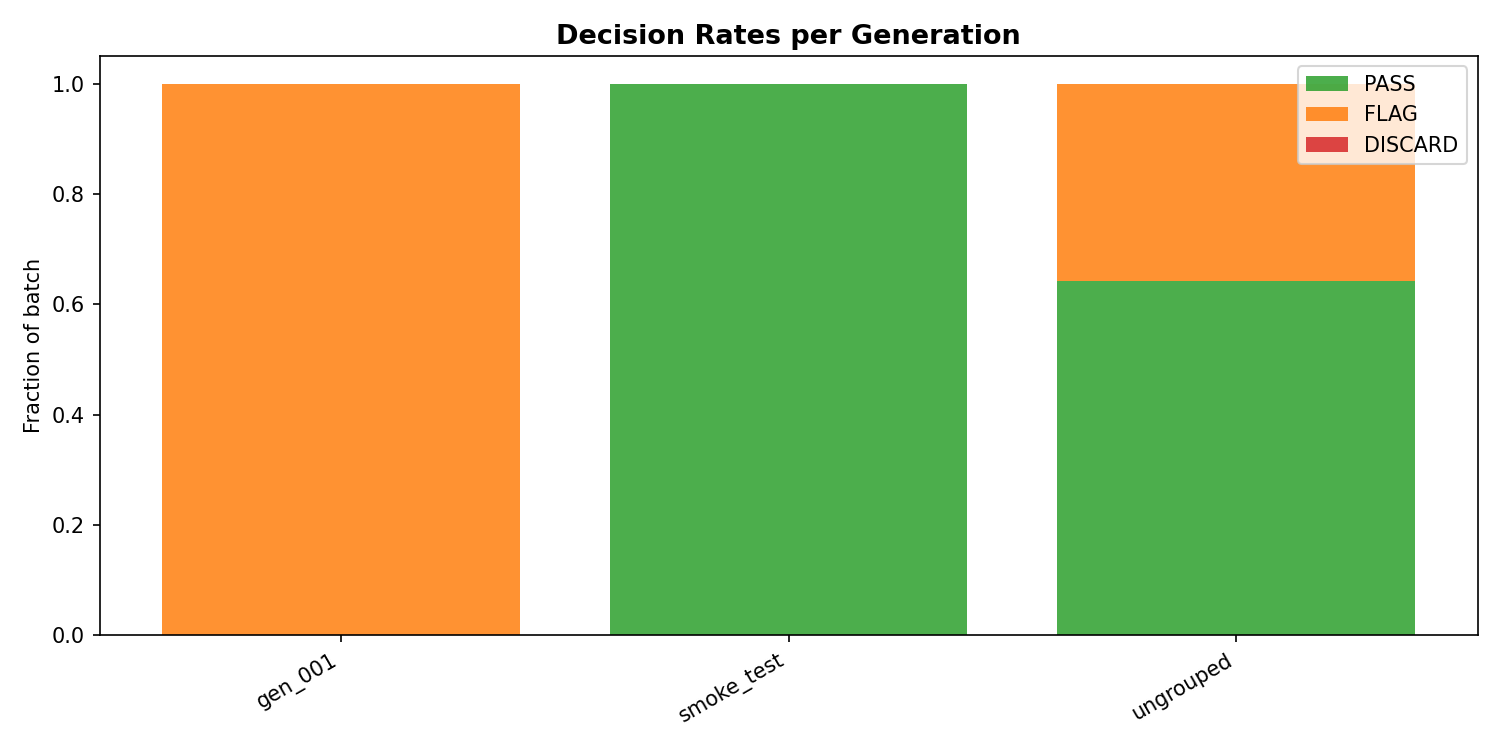
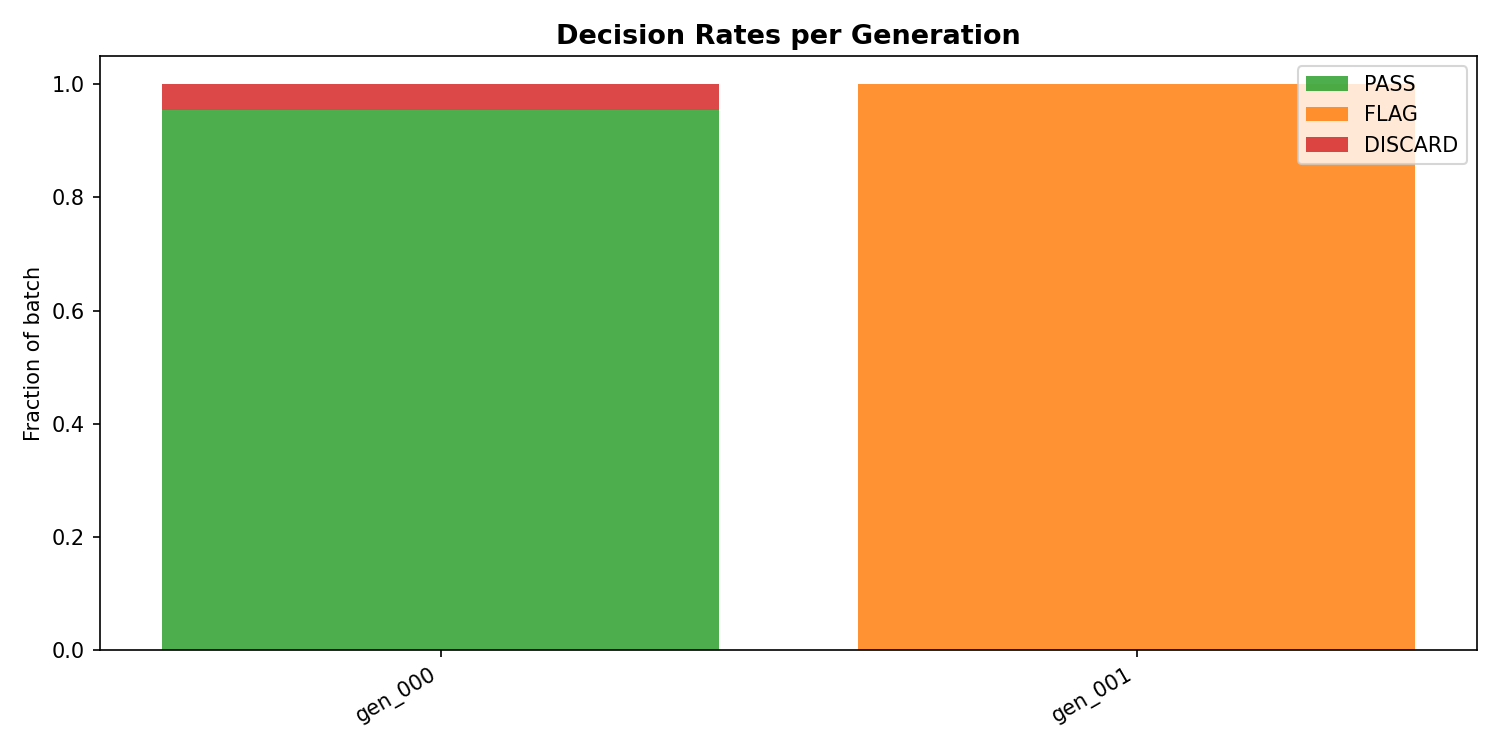
docs/fix: oracle dashboard fixes, acegen_scripts reorganisation
oracle_dashboard.py
- Fix MatplotlibDeprecationWarning: labels → tick_labels in boxplot()
- Add _acegen_summaries() helper — filters trajectory and decision rate
  plots to gen_NNN batches only, sorted by generation_number; excludes
  smoke_test and ungrouped batches from time-series charts
- Mode collapse warning now requires batch size ≥ 100 molecules to fire
  (prevents false alarms on small test batches like smoke_test n=3)
- Mean reward trajectory shows placeholder annotation when only one
  generation exists ("Run Generation 1 to see a trend")
- generation_number field added to summary dicts for sort ordering

run_gen0.py
- Moved from triage_agent/ root → triage_agent/acegen_scripts/
- _ROOT now resolves to triage_agent/ (one level up from _HERE) so all
  DB paths, loop/ config path, and sys.path entries remain correct after
  the directory change

streamlit_app.py
- Replace all use_container_width=True with width='stretch' (7 occurrences)
- Replace use_container_width=False with width='content'
- Fixes Streamlit deprecation warning scheduled for removal 2025-12-31

runs/
- Delete triage_runs.jsonl, batch_test.jsonl, batch_streamlit.jsonl
- All three files are obsolete — save() in run_record.py has written to
  SQLite since Week 8; no new data has gone to JSONL since then

docs
- Add TRI_FLAG_Week10_Lab_Notebook.md — full lab notebook for weeks 9
  and 10 including all patch scripts, Windows compatibility fixes, live
[…]

diff --git a/triage_agent/analysis/oracle_dashboard.py b/triage_agent/analysis/oracle_dashboard.py
@@ -63,7 +63,7 @@ def _load_runs(
 
 
 def _group_by_generation(runs: List[Dict]) -> Dict[str, List[Dict]]:
-    """Group runs by batch_id (generation label). NULL batch_id → 'ungrouped'."""
+    """Group runs by batch_id. NULL batch_id → 'ungrouped'."""
     groups: Dict[str, List[Dict]] = defaultdict(list)
     for run in runs:
         key = run.get("batch_id") or "ungrouped"
@@ -81,6 +81,15 @@ def _generation_summary(
         decisions = [r.get("final_decision", "") for r in runs]
         scaffolds = [r.get("scaffold_smiles") for r in runs]
 
+        # Extract generation number from batch_id (e.g. "gen_000" → 0)
+        # Non-ACEGEN batches get generation_number = None
+        gen_num = None
+        if batch_id and batch_id.startswith("gen_"):
+            try:
+                gen_num = int(batch_id.split("_")[1])
+            except (IndexError, ValueError):
+                pass
+
         total = len(runs)
         diversity = compute_diversity(scaffolds)
         pass_count = decisions.count("PASS")
@@ -89,6 +98,7 @@ def _generation_summary(
 
         summaries.append({
             "batch_id": batch_id,
+            "generation_number": gen_num,
             "count": total,
             "mean_reward": round(sum(rewards) / len(rewards), 4) if rewards else 0.0,
             "std_reward": round(_std(rewards), 4) if len(rewards) > 1 else 0.0,
@@ -100,6 +110,16 @@ def _generation_summary(
             "rewards_raw": rewards,
         })
     return summaries
+
+
+def _acegen_summaries(summaries: List[Dict]) -> List[Dict]:
+    """
+    Return only real ACEGEN generation batches (batch_id matches gen_NNN),
+    sorted by generation number. Excludes smoke_test, ungrouped, and any
+    other non-generation batches from the time-series plots.
+    """
+    acegen = [s for s in summaries if s["generation_number"] is not None]
+    return sorted(acegen, key=lambda s: s["generation_number"])
 
 
 def _std(values: List[float]) -> float:
@@ -118,19 +138,18 @@ def _plot_reward_distribution(
     summaries: List[Dict],
     output_path: str,
 ) -> None:
-    """Box plot: reward distribution per generation."""
+    """Box plot: reward distribution per generation (all batches)."""
     fig, ax = plt.subplots(figsize=(10, 5))
     labels = [s["batch_id"] for s in summaries]
     data = [s["rewards_raw"] for s in summaries]
 
-    # Filter to generations with at least one reward
     filtered = [(l, d) for l, d in zip(labels, data) if d]
     if not filtered:
         plt.close(fig)
         return
     labels_f, data_f = zip(*filtered)
 
-    ax.boxplot(data_f, labels=labels_f, patch_artist=True,
+    ax.boxplot(data_f, tick_labels=labels_f, patch_artist=True,
                boxprops=dict(facecolor="#4C72B0", alpha=0.7))
     ax.set_title("Reward Distribution per Generation", fontsize=13, fontweight="bold")
     ax.set_xlabel("Generation (batch_id)")
@@ -146,11 +165,17 @@ def _plot_decision_rates(
     summaries: List[Dict],
     output_path: str,
 ) -> None:
-    """Stacked bar: PASS / FLAG / DISCARD rates per generation."""
-    labels = [s["batch_id"] for s in summaries]
-    pass_rates = [s["pass_rate"] for s in summaries]
-    flag_rates = [s["flag_rate"] for s in summaries]
-    discard_rates = [s["discard_rate"] for s in summaries]
+    """Stacked bar: PASS / FLAG / DISCARD rates — ACEGEN generations only,
+    sorted by generation number."""
+    acegen = _acegen_summaries(summaries)
+
+    # Fall back to all batches if no ACEGEN generations exist yet
+    plot_data = acegen if acegen else summaries
+
+    labels = [s["batch_id"] for s in plot_data]
+    pass_rates = [s["pass_rate"] for s in plot_data]
+    flag_rates = [s["flag_rate"] for s in plot_data]
+    discard_rates = [s["discard_rate"] for s in plot_data]
     x = range(len(labels))
 
     fig, ax = plt.subplots(figsize=(10, 5))
@@ -165,6 +190,11 @@ def _plot_decision_rates(
     ax.set_ylabel("Fraction of batch")
     ax.set_ylim(0, 1.05)
     ax.legend(loc="upper right")
+
+    note = "" if acegen else "  (all batches — no ACEGEN generations yet)"
+    if note:
+        ax.set_xlabel(f"Generation (batch_id){note}", fontsize=9, color="#888888")
+
     fig.tight_layout()
     fig.savefig(output_path, dpi=150)
     plt.close(fig)
@@ -174,13 +204,28 @@ def _plot_mean_reward_trajectory(
     summaries: List[Dict],
     output_path: str,
 ) -> None:
-    """Line chart: mean reward trajectory across generations."""
-    labels = [s["batch_id"] for s in summaries]
-    means = [s["mean_reward"] for s in summaries]
-    stds = [s["std_reward"] for s in summaries]
-    x = list(range(len(labels)))
+    """Line chart: mean reward trajectory — ACEGEN generations only,
+    sorted by generation number. smoke_test and ungrouped are excluded
+    because they are not sequential training steps."""
+    acegen = _acegen_summaries(summaries)
 
     fig, ax = plt.subplots(figsize=(10, 4))
+
+    if not acegen:
+        ax.text(0.5, 0.5, "No ACEGEN generations recorded yet.\nRun Generation 0 to populate this chart.",
+                ha="center", va="center", transform=ax.transAxes,
+                fontsize=11, color="#888888")
+        ax.set_title("Mean Reward Trajectory", fontsize=13, fontweight="bold")
+        fig.tight_layout()
+        fig.savefig(output_path, dpi=150)
+        plt.close(fig)
+        return
+
+    labels = [s["batch_id"] for s in acegen]
+    means  = [s["mean_reward"] for s in acegen]
+    stds   = [s["std_reward"]  for s in acegen]
+    x = list(range(len(labels)))
+
     ax.plot(x, means, marker="o", linewidth=2, color="#4C72B0", label="Mean reward")
     ax.fill_between(
         x,
@@ -191,9 +236,17 @@ def _plot_mean_reward_trajectory(
     ax.set_xticks(x)
     ax.set_xticklabels(labels, rotation=30, ha="right")
     ax.set_title("Mean Reward Trajectory", fontsize=13, fontweight="bold")
+    ax.set_xlabel("ACEGEN generation")
     ax.set_ylabel("Mean Reward")
     ax.set_ylim(-0.05, 1.05)
     ax.legend()
+
+    if len(acegen) == 1:
+        ax.annotate("Run Generation 1 to see a trend",
+                    xy=(0, means[0]), xytext=(0.15, 0.75),
+                    textcoords="axes fraction", fontsize=9,
+                    color="#888888", arrowprops=dict(arrowstyle="->", color="#888888"))
+
     fig.tight_layout()
     fig.savefig(output_path, dpi=150)
     plt.close(fig)
@@ -203,23 +256,25 @@ def _plot_scaffold_diversity(
     summaries: List[Dict],
     output_path: str,
 ) -> None:
-    """Bar chart: unique scaffold count per generation."""
+    """Bar chart: unique scaffold count — all batches shown, but
+    mode collapse warning only meaningful for large batches (≥100 molecules)."""
     labels = [s["batch_id"] for s in summaries]
     unique = [s["unique_scaffolds"] for s in summaries]
     x = range(len(labels))
 
     fig, ax = plt.subplots(figsize=(10, 4))
     bars = ax.bar(x, unique, color="#9467bd", alpha=0.8)
-    # Convergence warning overlay
+
     for i, s in enumerate(summaries):
-        if s["convergence_warning"]:
+        # Only show mode collapse warning for batches large enough to be meaningful
+        if s["convergence_warning"] and s["count"] >= 100:
             bars[i].set_edgecolor("red")
             bars[i].set_linewidth(2.5)
 
     ax.set_xticks(list(x))
     ax.set_xticklabels(labels, rotation=30, ha="right")
     ax.set_title(
-        "Unique Scaffolds per Generation  (red border = mode collapse warning)",
+        "Unique Scaffolds per Generation  (red border = mode collapse warning, n≥100)",
         fontsize=12, fontweight="bold",
     )
     ax.set_ylabel("Unique scaffolds")

diff --git a/triage_agent/acegen_scripts/run_gen0.py b/triage_agent/acegen_scripts/run_gen0.py
@@ -1,0 +1,110 @@
+"""
+run_gen0.py — Generation launcher for TRI_FLAG + ACEGEN
+
+Sets required environment variables BEFORE torch is imported anywhere,
+then hands off to the ACEGEN reinvent script.
+
+Location: triage_agent/acegen_scripts/run_gen0.py
+Run from triage_agent/ directory:
+    python acegen_scripts/run_gen0.py
+"""
+import os
+import sys
+import ctypes
+
+# Must be set before ANY torch import
+os.environ["KMP_DUPLICATE_LIB_OK"] = "TRUE"
+
+# ---------------------------------------------------------------------------
+# Path resolution
+# _HERE  = triage_agent/acegen_scripts/   (this file's directory)
+# _ROOT  = triage_agent/                  (project root for all imports)
+# ---------------------------------------------------------------------------
+_HERE = os.path.dirname(os.path.abspath(__file__))
+_ROOT = os.path.dirname(_HERE)   # one level up — triage_agent/
+
+# ---------------------------------------------------------------------------
+# Windows DLL fix — patch torch's _load_dll_libraries before it runs.
+# ---------------------------------------------------------------------------
+_SITE_PACKAGES = os.path.join(os.path.dirname(sys.executable), "Lib", "site-packages")
+_TORCH_LIB     = os.path.join(_SITE_PACKAGES, "torch", "lib")
+_CONDA_LIB_BIN = os.path.join(os.path.dirname(sys.executable), "Library", "bin")
+_CONDA_ROOT    = os.path.dirname(sys.executable)
+
+kernel32 = ctypes.WinDLL("kernel32", use_last_error=True)
+
+for _dir in [_TORCH_LIB, _CONDA_LIB_BIN, _CONDA_ROOT,
+             os.path.join(_CONDA_ROOT, "Library", "mingw-w64", "bin"),
+             os.path.join(_CONDA_ROOT, "Scripts")]:
+    if os.path.isdir(_dir):
+        kernel32.AddDllDirectory(ctypes.c_wchar_p(_dir))
+        if hasattr(os, "add_dll_directory"):
+            os.add_dll_directory(_dir)
+
+import glob as _glob
+for _dll in _glob.glob(os.path.join(_TORCH_LIB, "*.dll")):
+    try:
+        ctypes.WinDLL(_dll)
+    except OSError:
+        pass
+
+# ---------------------------------------------------------------------------
+# sys.path — both _ROOT and its parent for dotted-path import resolution
+# ---------------------------------------------------------------------------
+_PARENT = os.path.dirname(_ROOT)   # parent of triage_agent/
+for _p in [_ROOT, _PARENT]:
+    if _p not in sys.path:
+        sys.path.insert(0, _p)
+
+# ---------------------------------------------------------------------------
+# Scorer config via environment variables
+# ---------------------------------------------------------------------------
+os.environ["TRIFLAG_BATCH_ID"]           = "gen_000"
+os.environ["TRIFLAG_GENERATION_NUMBER"]  = "0"
+os.environ["TRIFLAG_SKIP_SIMILARITY"]    = "1"   # CRITICAL: no live API calls for gen 0
+os.environ["TRIFLAG_DB_PATH"]            = os.path.join(_ROOT, "runs", "triflag.db")
+
+print(f"[run_gen0] Scorer configured:")
+print(f"  BATCH_ID          = {os.environ['TRIFLAG_BATCH_ID']}")
+print(f"  GENERATION_NUMBER = {os.environ['TRIFLAG_GENERATION_NUMBER']}")
+print(f"  SKIP_SIMILARITY   = {os.environ['TRIFLAG_SKIP_SIMILARITY']} (1=True)")
+print(f"  DB_PATH           = {os.environ['TRIFLAG_DB_PATH']}")
+
+# ---------------------------------------------------------------------------
+# Locate and launch ACEGEN reinvent script
+# ---------------------------------------------------------------------------
+_ACEGEN_SCRIPT = os.path.normpath(os.path.join(
+    _ROOT,       # triage_agent/
+    "..",        # Lab Code/TRI_FLAG/
+    "..",        # Lab Code/
+    "acegen-open",
+    "scripts", "reinvent", "reinvent.py"
+))
+
+if not os.path.exists(_ACEGEN_SCRIPT):
+    print(f"\n[run_gen0] ERROR: ACEGEN script not found at:\n  {_ACEGEN_SCRIPT}")
+    print("Edit _ACEGEN_SCRIPT path in run_gen0.py to point at your acegen-open clone.")
+    sys.exit(1)
+
+print(f"\n[run_gen0] Launching ACEGEN reinvent script:")
+print(f"  {_ACEGEN_SCRIPT}")
+print(f"  --config-path loop --config-name config_triflag\n")
+
+import torch    # noqa: F401 — intentional pre-load (populates DLL cache)
+import torchrl  # noqa: F401
+
+sys.argv = [
+    _ACEGEN_SCRIPT,
+    "--config-path", os.path.join(_ROOT, "loop"),
+    "--config-name", "config_triflag",
+]
+
+with open(_ACEGEN_SCRIPT) as f:
+    _script_src = f.read()
+
+_script_src = _script_src.replace(
+    'os.chdir("/tmp")',
+    'os.chdir(os.environ.get("TEMP", os.environ.get("TMP", os.path.expanduser("~"))))'
+)
+
+exec(compile(_script_src, _ACEGEN_SCRIPT, "exec"), {"__name__": "__main__", "__file__": _ACEGEN_SCRIPT})

diff --git a/triage_agent/streamlit_app.py b/triage_agent/streamlit_app.py
@@ -480,7 +480,7 @@ def _render_score_table(record: RunRecord):
             "Detail": f"Nearest: {record.nn_id or '—'} ({record.nn_source or '—'})  ·  {record.similarity_decision or '—'}",
         },
     ]
-    st.dataframe(pd.DataFrame(rows), use_container_width=True, hide_index=True)
+    st.dataframe(pd.DataFrame(rows), width='stretch', hide_index=True)
 
 
 def _render_descriptor_table(state):
@@ -524,7 +524,7 @@ def _render_descriptor_table(state):
     ]
 
     st.markdown("#### Physicochemical Properties")
-    st.dataframe(pd.DataFrame(rows), use_container_width=True, hide_index=True)
+    st.dataframe(pd.DataFrame(rows), width='stretch', hide_index=True)
 
     if scaffold:
         st.markdown(
@@ -746,7 +746,7 @@ with tab_batch:
                 st.error(f"Missing required columns: {missing}")
             else:
                 st.markdown(f"{len(df_input)} molecules loaded.")
-                st.dataframe(df_input.head(5), use_container_width=True, hide_index=True)
+                st.dataframe(df_input.head(5), width='stretch', hide_index=True)
 
                 if st.button("Run Batch Triage", type="primary", key="run_batch"):
                     results = []
@@ -821,7 +821,7 @@ with tab_batch:
         m4.metric("Discard", discards)
         m5.metric("Error",   errors)
 
-        st.dataframe(df_res, use_container_width=True, hide_index=True)
+        st.dataframe(df_res, width='stretch', hide_index=True)
 
         ts = datetime.now(timezone.utc).strftime("%Y%m%d_%H%M%S")
         col_dl1, col_dl2 = st.columns(2)
@@ -894,7 +894,7 @@ with tab_analytics:
                 st.markdown("#### Top Candidates")
                 st.dataframe(
                     _pd.DataFrame(_top_rows),
-                    use_container_width=True,
+                    width='stretch',
                     hide_index=True,
                 )
                 st.markdown("<hr class='section-rule'>", unsafe_allow_html=True)
@@ -921,7 +921,7 @@ with tab_analytics:
                     "unique_scaffolds", "convergence_warning",
                 ]
                 df_summary = pd.DataFrame([{k: s[k] for k in display_cols if k in s} for s in summaries])
-                st.dataframe(df_summary, use_container_width=True, hide_index=True)
+                st.dataframe(df_summary, width='stretch', hide_index=True)
 
                 plot_dir = os.path.join(_HERE, "analysis", "output", "oracle")
                 plot_specs = [
@@ -959,7 +959,7 @@ with tab_analytics:
                     conn,
                 )
                 conn.close()
-                st.dataframe(df_raw, use_container_width=True, hide_index=True)
+                st.dataframe(df_raw, width='stretch', hide_index=True)
             except Exception as e:
                 st.error(f"Could not query database: {e}")
 
